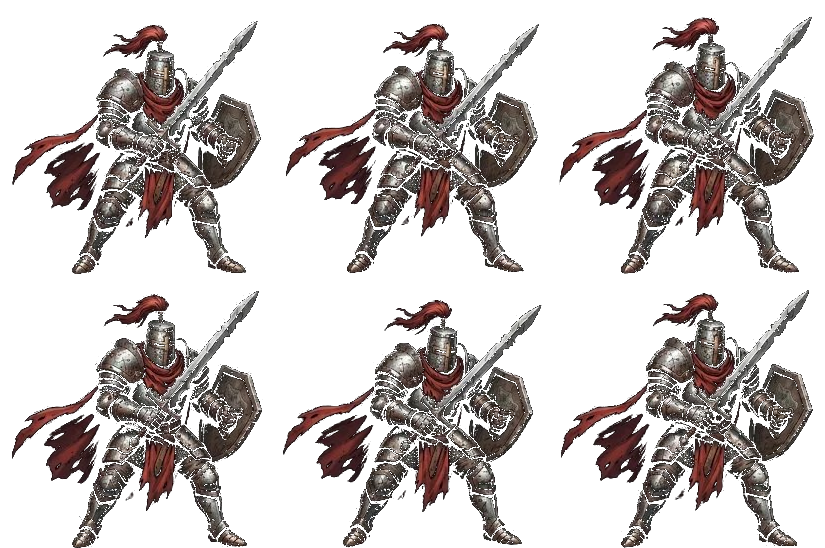
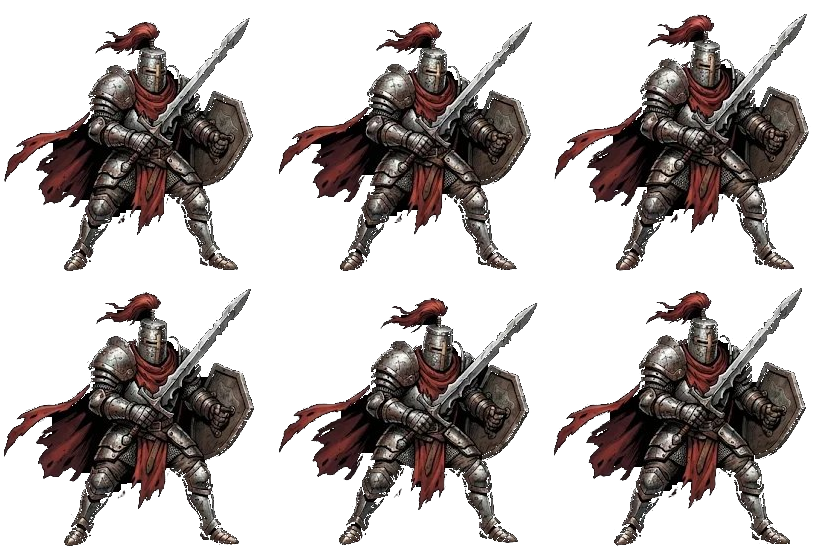
Fix Ash Sculptor attack sprite alignment, ensure animated Iron Footman companion in retinue, and enforce sequential unit turn pacing

diff --git a/lib/features/combat_spatial/spatial_battle_screen.dart b/lib/features/combat_spatial/spatial_battle_screen.dart
@@ -290,6 +290,7 @@ class _SpatialBattleScreenState extends State<SpatialBattleScreen> {
     super.initState();
     _battlefieldFocusNode = FocusNode();
     SpriteSheetAnimation.precache('assets/animations/ash_sculptor_attack_sheet.png');
+    SpriteSheetAnimation.precache('assets/animations/ash_sculptor_defend_sheet.png');
     SpriteSheetAnimation.precache('assets/animations/valeria_slash_sheet.png');
     SpriteSheetAnimation.precache('assets/animations/iron_footman_idle_sheet.png');
     final players = widget.initialPlayerUnits?.whereType<UnitEntity>().toList();
@@ -5900,30 +5901,53 @@ class _SpatialBattleScreenState extends State<SpatialBattleScreen> {
                                   : const ColorFilter.mode(Colors.transparent, BlendMode.dst)),
                           child: (isAttacking && (unit.isAshSculptor || unit.id == 'ash_sculptor' || unit.assetPath.toLowerCase().contains('ash_sculptor')))
                               ? (_activeSkillName == 'Obsidian Bastion'
-                                  ? Image.asset(
-                                      'assets/images/ash_sculptor_shield_burst.png',
-                                      fit: BoxFit.contain,
-                                      alignment: Alignment.bottomCenter,
-                                    )
-                                  : SpriteSheetAnimation(
-                                      assetPath: 'assets/animations/ash_sculptor_attack_sheet.png',
+                                  ? SpriteSheetAnimation(
+                                      assetPath: 'assets/animations/ash_sculptor_defend_sheet.png',
                                       columns: 3,
                                       rows: 2,
                                       totalFrames: 6,
-                                      duration: const Duration(milliseconds: 950),
+                                      duration: const Duration(milliseconds: 850),
                                       loop: false,
                                       fit: BoxFit.contain,
                                       fallback: Image.asset(
-                                        unit.assetPath,
+                                        'assets/images/ash_sculptor_shield_burst.png',
                                         fit: BoxFit.contain,
                                         alignment: Alignment.bottomCenter,
                                       ),
+                                    )
+                                  : OverflowBox(
+                                      maxWidth: modelHeight * 1.5,
+                                      maxHeight: modelHeight,
+                                      alignment: Alignment.bottomCenter,
+                                      child: SpriteSheetAnimation(
+                                        assetPath: 'assets/animations/ash_sculptor_attack_sheet.png',
+                                        columns: 3,
+                                        rows: 2,
+                                        totalFrames: 6,
+                                        duration: const Duration(milliseconds: 900),
+                                        loop: false,
+                                        fit: BoxFit.contain,
+                                        fallback: Image.asset(
+                                          unit.assetPath,
+                                          fit: BoxFit.contain,
+                                          alignment: Alignment.bottomCenter,
+                                        ),
+                                      ),
                                     ))
                               : (isDamaged && (unit.isAshSculptor || unit.id == 'ash_sculptor' || unit.assetPath.toLowerCase().contains('ash_sculptor')))
-                                  ? Image.asset(
-                                      'assets/images/ash_sculptor_hit.png',
+                                  ? SpriteSheetAnimation(
+                                      assetPath: 'assets/animations/ash_sculptor_defend_sheet.png',
+                                      columns: 3,
+                                      rows: 2,
+                                      totalFrames: 6,
+                                      duration: const Duration(milliseconds: 650),
+                                      loop: false,
                                       fit: BoxFit.contain,
-                                      alignment: Alignment.bottomCenter,
+                                      fallback: Image.asset(
+                                        'assets/images/ash_sculptor_hit.png',
+                                        fit: BoxFit.contain,
+                                        alignment: Alignment.bottomCenter,
+                                      ),
                                     )
                               : (isAttacking && (unit.id == 'lady_valeria' || unit.assetPath.toLowerCase().contains('valeria')))
                                   ? SpriteSheetAnimation(

diff --git a/lib/features/combat_spatial/spatial_combat_engine.dart b/lib/features/combat_spatial/spatial_combat_engine.dart
@@ -575,27 +575,38 @@ class SpatialCombatEngine extends ChangeNotifier {
         final effectiveSpd = ((p.speed + relicBonuses.bonusSpeed) * plinthAllMult * morriganSpeedMult).round();
         final effectiveGraftId = p.graftedTraitId ?? (p.plinthMaterial == PlinthMaterial.bone ? 'plinth_vampiric_bone' : null);
 
-        // Identify the Commander Protagonist (lead slot)
+        // Identify the Commander Protagonist (lead slot) and Vanguard Footman (slot 1)
         final bool isCommanderLead = (i == 0) ||
             p.speciesId.contains('vladislav') ||
             p.speciesId.contains('ash_sculptor') ||
             p.id.contains('vladislav') ||
             p.id.contains('ash_sculptor');
+        final bool isFootmanCompanion = !isCommanderLead && (i == 1);
 
-        final String unitId = isCommanderLead ? 'ash_sculptor' : p.id;
+        final String unitId = isCommanderLead
+            ? 'ash_sculptor'
+            : (isFootmanCompanion ? 'iron_footman' : p.id);
         final autoNode = autoFormationNodes[i];
         final int finalSpeed = isCommanderLead ? max(115, effectiveSpd) : effectiveSpd;
 
         playerUnits.add(CombatUnitState(
           id: unitId,
-          name: isCommanderLead ? 'The Ash Sculptor' : p.name,
-          templateId: isCommanderLead ? 'ash_sculptor' : p.speciesId,
+          name: isCommanderLead
+              ? 'The Ash Sculptor'
+              : (isFootmanCompanion ? 'Iron Footman' : p.name),
+          templateId: isCommanderLead
+              ? 'ash_sculptor'
+              : (isFootmanCompanion ? 'iron_footman' : p.speciesId),
           isPlayer: true,
           isAshSculptor: isCommanderLead,
           crucibleCinders: isCommanderLead ? 45 : 0,
-          customAssetPath: isCommanderLead ? 'assets/images/ash_sculptor_idle.png' : p.customAvatarAsset,
+          customAssetPath: isCommanderLead
+              ? 'assets/images/ash_sculptor_idle.png'
+              : (isFootmanCompanion ? 'assets/images/iron_footman_idle.png' : p.customAvatarAsset),
           footprint: UnitFootprint.single1x1,
-          archetype: isCommanderLead ? UnitArchetype.vanguardMelee : mapArchetypeToSpatial(p.archetype),
+          archetype: (isCommanderLead || isFootmanCompanion)
+              ? UnitArchetype.vanguardMelee
+              : mapArchetypeToSpatial(p.archetype),
           occupiedNodes: [
             GridNode(column: autoNode.column, row: autoNode.row, occupantUnitId: unitId),
           ],
@@ -623,7 +634,8 @@ class SpatialCombatEngine extends ChangeNotifier {
         playerUnits.add(CombatUnitState(
           id: 'tombstone_sentinel',
           name: 'Tombstone Sentinel',
-          templateId: 'tombstone_sentinel',
+          templateId: 'iron_footman',
+          customAssetPath: 'assets/images/iron_footman_idle.png',
           isPlayer: true,
           archetype: UnitArchetype.vanguardMelee,
           footprint: UnitFootprint.single1x1,
@@ -996,8 +1008,9 @@ class SpatialCombatEngine extends ChangeNotifier {
     // 2. Tombstone Sentinel: Frontline Protector Retinue (Living Rampart)
     final tombstoneSentinel = CombatUnitState(
       id: 'tombstone_sentinel',
-      name: 'Tombstone Sentinel',
-      templateId: 'tombstone_sentinel',
+      name: 'Iron Footman',
+      templateId: 'iron_footman',
+      customAssetPath: 'assets/images/iron_footman_idle.png',
       isPlayer: true,
       archetype: UnitArchetype.vanguardMelee,
       footprint: UnitFootprint.single1x1,
@@ -1561,7 +1574,7 @@ class SpatialCombatEngine extends ChangeNotifier {
         _channelRetinueCinders(unit);
       }
       _executeUnitTurn(unit);
-      if (isActionPauseEnabled && activeActionEvent != null) {
+      if (isActionPauseEnabled) {
         break;
       }
     }

diff --git a/lib/shared/widgets/app_shell.dart b/lib/shared/widgets/app_shell.dart
@@ -172,29 +172,35 @@ class _AppShellState extends State<AppShell> {
       _clearedGauntletTrials.addAll(saved.clearedGauntletTrials);
 
       if (saved.allies.isNotEmpty) {
-        final migratedAllies = saved.allies.map((u) {
-          if (u.id.contains('vladislav') || u.speciesId.contains('vladislav') || u == saved.allies.first) {
-            return u.copyWith(
-              name: 'The Ash Sculptor',
-              speciesId: 'ash_sculptor',
-              customAvatarAsset: 'assets/images/ash_sculptor_idle.png',
-            );
-          }
-          return u;
-        }).toList();
-
-        if (migratedAllies.length < 3) {
-          final defaultSquad = StarterBrigades.createAshLegionPlayerSquad();
-          for (final companion in defaultSquad.skip(migratedAllies.length).take(3 - migratedAllies.length)) {
-            migratedAllies.add(companion);
-          }
-        }
+        final migratedAllies = _migrateToSculptorAndFootmanRetinue(saved.allies);
         _tickManager.updateSquads(allies: migratedAllies);
       }
       if (saved.reserveInventory.isNotEmpty) {
         _inventory = List.from(saved.reserveInventory);
       }
     });
+  }
+
+  List<UnitEntity> _migrateToSculptorAndFootmanRetinue(List<UnitEntity> rawAllies) {
+    final defaultSquad = StarterBrigades.createAshLegionPlayerSquad();
+    final List<UnitEntity> result = List.from(rawAllies);
+    while (result.length < 3) {
+      result.add(defaultSquad[result.length]);
+    }
+    // Slot 0: Always The Ash Sculptor Commander
+    result[0] = result[0].copyWith(
+      name: 'The Ash Sculptor',
+      speciesId: 'ash_sculptor',
+      customAvatarAsset: 'assets/images/ash_sculptor_idle.png',
+    );
+    // Slot 1: Always the animated Iron Footman Vanguard companion
+    result[1] = result[1].copyWith(
+      name: 'Iron Footman',
+      speciesId: 'iron_footman',
+      archetype: Archetype.juggernaut,
+      customAvatarAsset: 'assets/images/iron_footman_idle.png',
+    );
+    return result;
   }
 
   Future<void> _loadPersistedState() async {
@@ -230,7 +236,9 @@ class _AppShellState extends State<AppShell> {
           List<UnitEntity> alliesToRestore = saved.allies;
           // Ensure the player's saved active commander is present in the squad if allies were empty
           if (alliesToRestore.isEmpty) {
-            alliesToRestore = StarterBrigades.createSoloStarterSquad(_activeGeneralType);
+            alliesToRestore = StarterBrigades.createAshLegionPlayerSquad().take(3).toList();
+          } else {
+            alliesToRestore = _migrateToSculptorAndFootmanRetinue(alliesToRestore);
           }
 
           if (alliesToRestore.isNotEmpty) {
